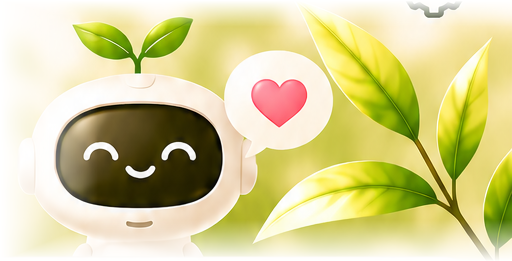
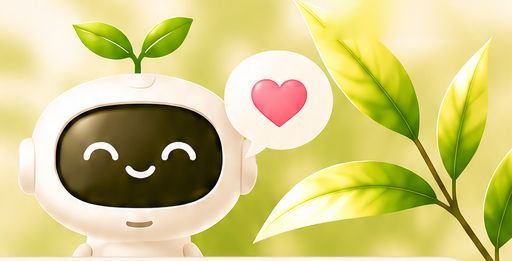
Add files via upload

Changed region(s): [[0.0, 0.0, 1.0, 1.0], [0.0625, 0.0, 1.0, 0.1839]]

diff --git a/index.html b/index.html
@@ -1,3 +1,3 @@
 <!DOCTYPE html>
 
-<html lang="ko"><head><meta charset="utf-8"/><meta content="width=device-width, initial-scale=1, viewport-fit=cover" name="viewport"/><meta content="#f9f1df" name="theme-color"/><meta content="yes" name="apple-mobile-web-app-capable"/><title>하루 · 1.1 테스트</title><link href="./style.css?v=1200" rel="stylesheet"/></head><body><div class="app"><header class="hero"><div aria-hidden="true" class="hero-art"></div><div class="hero-greeting">안녕하세요!<br/>오늘도 좋은 하루 되세요 😊</div><div class="brand"><h1><span class="leaf-mark">🌿</span> 하루</h1></div><div class="datebox"><strong id="dateText"></strong><small id="lunarText"></small></div></header><main><section class="page active" id="home"><button aria-label="음성으로 일정이나 할 일 등록" class="voice" id="voice" type="button"><span aria-hidden="true" class="voice-mic">🎙</span><span>말로 일정·할 일 등록</span><b aria-hidden="true">▥</b></button><div class="actions"><button class="add-event">▦  일정 추가</button><button class="add-task">☑  할 일 추가</button></div><div class="home-scroll"><div class="cards"><section class="panel home-events-card"><h2>▦ 오늘의 일정 <span class="home-count" id="homeEventsCount"></span><button aria-label="오늘 일정 자세히 보기" class="go" data-page="today-events">›</button></h2><div class="haru-scroll-host"><div class="card-scroll" id="todayEvents"></div><div aria-hidden="true" class="haru-scroll-rail"><div class="haru-scroll-thumb"></div></div></div></section><section class="panel home-tasks-card"><h2>☑ 오늘 할 일 <span class="home-count" id="homeTasksCount"></span><button aria-label="오늘 할 일 자세히 보기" class="go" data-page="today-tasks">›</button></h2><div class="haru-scroll-host"><div class="card-scroll" id="todayTasks"></div><div aria-hidden="true" class="haru-scroll-rail"><div class="haru-scroll-thumb"></div></div></div></section></div><section class="upcoming panel home-upcoming-card"><h2>◷ 다가오는 일정 <span class="home-count" id="homeUpcomingCount"></span></h2><div class="haru-scroll-host"><div class="card-scroll" id="upcomingEvents"></div><div aria-hidden="true" class="haru-scroll-rail"><div class="haru-scroll-thumb"></div></div></div></section></div></section><section class="page" id="today-events"><div class="detail-shell"><h2>하루 상세보기</h2><div class="premium-date-card"><div class="detail-date-nav"><button aria-label="이전 날짜" id="detailPrev" type="button">‹</button><button aria-label="날짜를 눌러 달력 열기" class="detail-date-open" id="detailDateOpen" type="button"><strong id="detailDateText"></strong><small id="detailLunarText"></small></button><button aria-label="다음 날짜" id="detailNext" type="button">›</button></div><div aria-label="일정 또는 할 일" class="detail-tabs" role="group"><button aria-pressed="true" class="detail-tab active" data-detail-kind="events" type="button">일정</button><button aria-pressed="false" class="detail-tab" data-detail-kind="tasks" type="button">할 일</button></div></div><div class="detail-section-heading"><strong id="detailListHeading">일정 0건</strong><span id="detailShortDate">시간순</span></div><div class="haru-scroll-host"><div aria-label="선택한 날짜의 목록" class="detail-list-scroll"><div id="todayEventsFull"></div><div hidden="" id="todayTasksFull"></div></div><div aria-hidden="true" class="haru-scroll-rail"><div class="haru-scroll-thumb"></div></div></div><button class="wide add-event" id="detailAddEvent">＋ 일정 추가</button><button class="wide add-task" hidden="" id="detailAddTask">＋ 할 일 추가</button></div></section><section class="page" id="calendar"><div class="section-head"><button id="prevMonth">‹</button><h2 id="monthLabel"></h2><button id="nextMonth">›</button></div><div class="weekdays"><span>일</span><span>월</span><span>화</span><span>수</span><span>목</span><span>금</span><span>토</span></div><div class="calendar-scroll-host haru-scroll-host"><div class="calendar-grid" id="calendarGrid"></div><div aria-hidden="true" class="haru-scroll-rail"><div class="haru-scroll-thumb"></div></div></div><h3 id="selectedLabel"></h3><div id="selectedEvents"></div><button class="wide add-event">＋ 일정 추가</button></section><section class="page" id="all"><div class="all-top"><h2>전체 일정</h2><p>날짜별로 정리한 나의 일정</p></div><div aria-label="일정 종류" class="filter" role="group"><button class="filter-btn selected" data-filter="all">모두</button><button class="filter-btn" data-filter="event">일정</button><button class="filter-btn" data-filter="task">할 일</button></div><div class="haru-scroll-host"><div class="all-scroll" id="allScroll"><div id="allItems"></div></div><div aria-hidden="true" class="haru-scroll-rail"><div class="haru-scroll-thumb"></div></div></div><div class="all-action-bar"><button class="add-event" type="button">＋ 일정 추가</button><button class="add-task" type="button">＋ 할 일 추가</button></div></section><section class="page" id="settings"><h2>설정</h2><div class="panel"><h3>하루 테스트 버전</h3><p>새로운 디자인과 기본 기능을 확인하는 독립 테스트야.</p><p>일정과 할 일은 이 브라우저에 저장돼. 기존 하루 앱의 데이터는 건드리지 않아.</p><button class="wide" id="export">내 데이터 백업(JSON)</button><button class="wide import-button" id="importButton" type="button">내 데이터 복원(JSON)</button><input accept=".json,application/json" hidden="" id="importFile" type="file"/><p class="small">복원 전 현재 데이터를 자동으로 백업하고, 확인 후 복원해.</p><label class="soundsetting">음성 등록 시작 안내 <select id="voiceMode"><option value="voice">안내 음성 + 효과음</option><option value="sound">효과음만</option><option value="silent">무음</option></select></label><p class="small">하루 1.1 테스트 · 기존 테스트 데이터는 그대로 유지돼.</p><p class="small">실제 푸시 알림은 아직 지원하지 않아. 일정별 알림 선택 사항만 저장해.</p></div></section></main><nav aria-label="하단 메뉴" class="nav"><button class="selected" data-page="home"><i>⌂</i>홈</button><button data-page="calendar"><i>▦</i>캘린더</button><button data-page="all"><i>☷</i>전체 일정</button><button data-page="settings"><i class="nav-settings-icon"><svg aria-hidden="true" fill="none" height="23" stroke="currentColor" stroke-linecap="round" stroke-linejoin="round" stroke-width="1.8" viewbox="0 0 24 24" width="23"><path d="M4 7h16M4 12h12M4 17h8"></path><circle cx="16" cy="17" fill="currentColor" r="2" stroke="none"></circle></svg></i>설정</button></nav></div><dialog aria-label="날짜 선택" class="detail-calendar-dialog" id="detailCalendarDialog"><div class="dialoghead"><h2>날짜 선택</h2><button aria-label="닫기" class="close" type="button">×</button></div><div class="detail-calendar-head"><button aria-label="이전 달" id="detailCalPrev" type="button">‹</button><strong id="detailCalMonth"></strong><button aria-label="다음 달" id="detailCalNext" type="button">›</button></div><div class="detail-calendar-week"><span>일</span><span>월</span><span>화</span><span>수</span><span>목</span><span>금</span><span>토</span></div><div class="detail-calendar-grid" id="detailCalGrid"></div></dialog><dialog id="eventDialog"><form id="eventForm"><div class="dialoghead"><h2 id="eventDialogTitle">일정 등록</h2><button class="close" type="button">×</button></div><label>일정 제목<input maxlength="80" name="title" placeholder="예: PT 수업" required=""/></label><div class="two"><label>날짜<input name="date" required="" type="date"/></label><label>시간<input name="time" required="" type="time" value="10:00"/></label></div><label>장소<input name="place" placeholder="선택 사항"/></label><fieldset><legend>이 일정의 알림 선택</legend><label><input checked="" name="prev" type="checkbox"/> 전날 오후 7시</label><label><input checked="" name="morning" type="checkbox"/> 당일 오전 9시</label><label><input checked="" name="before" type="checkbox"/> 시작 1시간 전</label></fieldset><p class="small">선택 내용은 저장되지만 실제 알림 전송은 아직 구현 전이야.</p><button class="save" type="submit">저장하기</button><button class="delete-entry" hidden="" id="deleteEvent" type="button">이 일정 삭제</button></form></dialog><dialog id="taskDialog"><form id="taskForm"><div class="dialoghead"><h2 id="taskDialogTitle">할 일 등록</h2><button class="close" type="button">×</button></div><label>할 일<input maxlength="80" name="title" placeholder="예: 장보기" required=""/></label><label>날짜<input name="date" required="" type="date"/></label><button class="save" type="submit">저장하기</button><button class="delete-entry" hidden="" id="deleteTask" type="button">이 할 일 삭제</button></form></dialog><dialog class="day-dialog" id="dayDialog"><div class="dialoghead"><div><h2 id="dayDialogTitle"></h2><p class="small" id="dayDialogLunar"></p></div><button aria-label="닫기" class="close" type="button">×</button></div><div class="day-dialog-list" id="dayDialogItems"></div><div class="day-dialog-actions"><button id="dayAddEvent" type="button">＋ 일정 추가</button><button id="dayAddTask" type="button">＋ 할 일 추가</button></div></dialog><dialog aria-label="음성 등록" class="voice-progress" id="voiceProgressDialog"><div class="dialoghead"><h2>🎙 음성 등록</h2><button aria-label="음성 등록 취소" class="close" id="voiceProgressClose" type="button">×</button></div><div class="voice-live-status"><span aria-hidden="true" class="voice-status-dot"></span><p aria-live="polite" id="voiceProgressText" role="status">마이크 준비 중…</p></div><p aria-live="polite" id="voiceTranscript">마이크가 준비되면 말씀해 주세요.</p><div class="voice-controls"><button class="voice-cancel" id="voiceCancel" type="button">취소</button><button class="voice-resume" hidden="" id="voiceResume" type="button">이어서 말하기</button><button class="voice-finish" disabled="" id="voiceFinish" type="button">완료</button></div></dialog><dialog id="voiceChoiceDialog"><div class="dialoghead"><h2>음성 등록 종류 선택</h2><button aria-label="닫기" class="close" type="button">×</button></div><p class="small">어느 항목으로 등록할까? 저장하기 전에 내용을 확인할 수 있어.</p><p class="voice-choice-text" id="voiceChoiceText"></p><div class="day-dialog-actions"><button id="voiceChooseEvent" type="button">일정으로 등록</button><button id="voiceChooseTask" type="button">할 일로 등록</button></div></dialog><script src="./voice-engine.js?v=1200"></script><script src="./app.js?v=1200"></script><script src="./scroll-indicators.js?v=1200"></script></body></html>
+<html lang="ko"><head><meta charset="utf-8"/><meta content="width=device-width, initial-scale=1, viewport-fit=cover" name="viewport"/><meta content="#f9f1df" name="theme-color"/><meta content="yes" name="apple-mobile-web-app-capable"/><title>하루 · 1.1 테스트</title><link href="./style.css?v=1300" rel="stylesheet"/></head><body><div class="app"><header class="hero"><div aria-hidden="true" class="hero-art"></div><div class="hero-greeting">안녕하세요!<br/>오늘도 좋은 하루 되세요 😊</div><div class="brand"><h1><span class="leaf-mark">🌿</span> 하루</h1></div><div class="datebox"><strong id="dateText"></strong><small id="lunarText"></small></div></header><main><section class="page active" id="home"><button aria-label="음성으로 일정이나 할 일 등록" class="voice" id="voice" type="button"><span aria-hidden="true" class="voice-mic">🎙</span><span>말로 일정·할 일 등록</span><b aria-hidden="true">▥</b></button><div class="actions"><button class="add-event">▦  일정 추가</button><button class="add-task">☑  할 일 추가</button></div><div class="home-scroll"><div class="cards"><section class="panel home-events-card"><h2>▦ 오늘의 일정 <span class="home-count" id="homeEventsCount"></span><button aria-label="오늘 일정 자세히 보기" class="go" data-page="today-events">›</button></h2><div class="haru-scroll-host"><div class="card-scroll" id="todayEvents"></div><div aria-hidden="true" class="haru-scroll-rail"><div class="haru-scroll-thumb"></div></div></div></section><section class="panel home-tasks-card"><h2>☑ 오늘 할 일 <span class="home-count" id="homeTasksCount"></span><button aria-label="오늘 할 일 자세히 보기" class="go" data-page="today-tasks">›</button></h2><div class="haru-scroll-host"><div class="card-scroll" id="todayTasks"></div><div aria-hidden="true" class="haru-scroll-rail"><div class="haru-scroll-thumb"></div></div></div></section></div><section class="upcoming panel home-upcoming-card"><h2>◷ 다가오는 일정 <span class="home-count" id="homeUpcomingCount"></span></h2><div class="haru-scroll-host"><div class="card-scroll" id="upcomingEvents"></div><div aria-hidden="true" class="haru-scroll-rail"><div class="haru-scroll-thumb"></div></div></div></section></div></section><section class="page" id="today-events"><div class="detail-shell"><h2>하루 상세보기</h2><div class="premium-date-card"><div class="detail-date-nav"><button aria-label="이전 날짜" id="detailPrev" type="button">‹</button><button aria-label="날짜를 눌러 달력 열기" class="detail-date-open" id="detailDateOpen" type="button"><strong id="detailDateText"></strong><small id="detailLunarText"></small></button><button aria-label="다음 날짜" id="detailNext" type="button">›</button></div><div aria-label="일정 또는 할 일" class="detail-tabs" role="group"><button aria-pressed="true" class="detail-tab active" data-detail-kind="events" type="button">일정</button><button aria-pressed="false" class="detail-tab" data-detail-kind="tasks" type="button">할 일</button></div></div><div class="detail-section-heading"><strong id="detailListHeading">일정 0건</strong><span id="detailShortDate">시간순</span></div><div class="haru-scroll-host"><div aria-label="선택한 날짜의 목록" class="detail-list-scroll"><div id="todayEventsFull"></div><div hidden="" id="todayTasksFull"></div></div><div aria-hidden="true" class="haru-scroll-rail"><div class="haru-scroll-thumb"></div></div></div><button class="wide add-event" id="detailAddEvent">＋ 일정 추가</button><button class="wide add-task" hidden="" id="detailAddTask">＋ 할 일 추가</button></div></section><section class="page" id="calendar"><div class="section-head"><button id="prevMonth">‹</button><h2 id="monthLabel"></h2><button id="nextMonth">›</button></div><div class="weekdays"><span>일</span><span>월</span><span>화</span><span>수</span><span>목</span><span>금</span><span>토</span></div><div class="calendar-scroll-host haru-scroll-host"><div class="calendar-grid" id="calendarGrid"></div><div aria-hidden="true" class="haru-scroll-rail"><div class="haru-scroll-thumb"></div></div></div><h3 id="selectedLabel"></h3><div id="selectedEvents"></div><button class="wide add-event">＋ 일정 추가</button></section><section class="page" id="all"><div class="all-top"><h2>전체 일정</h2><p>날짜별로 정리한 나의 일정</p></div><div aria-label="일정 종류" class="filter" role="group"><button class="filter-btn selected" data-filter="all">모두</button><button class="filter-btn" data-filter="event">일정</button><button class="filter-btn" data-filter="task">할 일</button></div><div class="haru-scroll-host"><div class="all-scroll" id="allScroll"><div id="allItems"></div></div><div aria-hidden="true" class="haru-scroll-rail"><div class="haru-scroll-thumb"></div></div></div><div class="all-action-bar"><button class="add-event" type="button">＋ 일정 추가</button><button class="add-task" type="button">＋ 할 일 추가</button></div></section><section class="page" id="settings"><h2>설정</h2><div class="panel"><h3>하루 테스트 버전</h3><p>새로운 디자인과 기본 기능을 확인하는 독립 테스트야.</p><p>일정과 할 일은 이 브라우저에 저장돼. 기존 하루 앱의 데이터는 건드리지 않아.</p><button class="wide" id="export">내 데이터 백업(JSON)</button><button class="wide import-button" id="importButton" type="button">내 데이터 복원(JSON)</button><input accept=".json,application/json" hidden="" id="importFile" type="file"/><p class="small">복원 전 현재 데이터를 자동으로 백업하고, 확인 후 복원해.</p><label class="soundsetting">음성 등록 시작 안내 <select id="voiceMode"><option value="voice">안내 음성 + 효과음</option><option value="sound">효과음만</option><option value="silent">무음</option></select></label><p class="small">하루 1.1 테스트 · 기존 테스트 데이터는 그대로 유지돼.</p><p class="small">실제 푸시 알림은 아직 지원하지 않아. 일정별 알림 선택 사항만 저장해.</p></div></section></main><nav aria-label="하단 메뉴" class="nav"><button class="selected" data-page="home"><i><svg aria-hidden="true" fill="none" height="24" stroke="currentColor" stroke-linecap="round" stroke-linejoin="round" stroke-width="1.8" viewbox="0 0 24 24" width="24" xmlns="http://www.w3.org/2000/svg"><path d="m3 10 9-7 9 7v10a1 1 0 0 1-1 1H4a1 1 0 0 1-1-1z"></path><path d="M9 21v-8h6v8"></path></svg></i>홈</button><button data-page="calendar"><i><svg aria-hidden="true" fill="none" height="24" stroke="currentColor" stroke-linecap="round" stroke-linejoin="round" stroke-width="1.8" viewbox="0 0 24 24" width="24" xmlns="http://www.w3.org/2000/svg"><rect height="16" rx="2" width="18" x="3" y="5"></rect><path d="M7 3v4M17 3v4M3 10h18M8 14h.01M12 14h.01M16 14h.01M8 18h.01M12 18h.01"></path></svg></i>캘린더</button><button data-page="all"><i><svg aria-hidden="true" fill="none" height="24" stroke="currentColor" stroke-linecap="round" stroke-linejoin="round" stroke-width="1.8" viewbox="0 0 24 24" width="24" xmlns="http://www.w3.org/2000/svg"><path d="M8 6h13M8 12h13M8 18h13"></path><path d="M3.5 6h.01M3.5 12h.01M3.5 18h.01"></path></svg></i>전체 일정</button><button data-page="settings"><i class="nav-settings-icon"><svg aria-hidden="true" fill="none" height="24" stroke="currentColor" stroke-linecap="round" stroke-linejoin="round" stroke-width="1.8" viewbox="0 0 24 24" width="24" xmlns="http://www.w3.org/2000/svg"><path d="M4 7h16M4 12h12M4 17h8"></path><circle cx="16" cy="17" fill="currentColor" r="2" stroke="none"></circle></svg></i>설정</button></nav></div><dialog aria-label="날짜 선택" class="detail-calendar-dialog" id="detailCalendarDialog"><div class="dialoghead"><h2>날짜 선택</h2><button aria-label="닫기" class="close" type="button">×</button></div><div class="detail-calendar-head"><button aria-label="이전 달" id="detailCalPrev" type="button">‹</button><strong id="detailCalMonth"></strong><button aria-label="다음 달" id="detailCalNext" type="button">›</button></div><div class="detail-calendar-week"><span>일</span><span>월</span><span>화</span><span>수</span><span>목</span><span>금</span><span>토</span></div><div class="detail-calendar-grid" id="detailCalGrid"></div></dialog><dialog id="eventDialog"><form id="eventForm"><div class="dialoghead"><h2 id="eventDialogTitle">일정 등록</h2><button class="close" type="button">×</button></div><label>일정 제목<input maxlength="80" name="title" placeholder="예: PT 수업" required=""/></label><div class="two"><label>날짜<input name="date" required="" type="date"/></label><label>시간<input name="time" required="" type="time" value="10:00"/></label></div><label>장소<input name="place" placeholder="선택 사항"/></label><fieldset><legend>이 일정의 알림 선택</legend><label><input checked="" name="prev" type="checkbox"/> 전날 오후 7시</label><label><input checked="" name="morning" type="checkbox"/> 당일 오전 9시</label><label><input checked="" name="before" type="checkbox"/> 시작 1시간 전</label></fieldset><p class="small">선택 내용은 저장되지만 실제 알림 전송은 아직 구현 전이야.</p><button class="save" type="submit">저장하기</button><button class="delete-entry" hidden="" id="deleteEvent" type="button">이 일정 삭제</button></form></dialog><dialog id="taskDialog"><form id="taskForm"><div class="dialoghead"><h2 id="taskDialogTitle">할 일 등록</h2><button class="close" type="button">×</button></div><label>할 일<input maxlength="80" name="title" placeholder="예: 장보기" required=""/></label><label>날짜<input name="date" required="" type="date"/></label><button class="save" type="submit">저장하기</button><button class="delete-entry" hidden="" id="deleteTask" type="button">이 할 일 삭제</button></form></dialog><dialog class="day-dialog" id="dayDialog"><div class="dialoghead"><div><h2 id="dayDialogTitle"></h2><p class="small" id="dayDialogLunar"></p></div><button aria-label="닫기" class="close" type="button">×</button></div><div class="day-dialog-list" id="dayDialogItems"></div><div class="day-dialog-actions"><button id="dayAddEvent" type="button">＋ 일정 추가</button><button id="dayAddTask" type="button">＋ 할 일 추가</button></div></dialog><dialog aria-label="음성 등록" class="voice-progress" id="voiceProgressDialog"><div class="dialoghead"><h2>🎙 음성 등록</h2><button aria-label="음성 등록 취소" class="close" id="voiceProgressClose" type="button">×</button></div><div class="voice-live-status"><span aria-hidden="true" class="voice-status-dot"></span><p aria-live="polite" id="voiceProgressText" role="status">마이크 준비 중…</p></div><p aria-live="polite" id="voiceTranscript">마이크가 준비되면 말씀해 주세요.</p><div class="voice-controls"><button class="voice-cancel" id="voiceCancel" type="button">취소</button><button class="voice-resume" hidden="" id="voiceResume" type="button">이어서 말하기</button><button class="voice-finish" disabled="" id="voiceFinish" type="button">완료</button></div></dialog><dialog id="voiceChoiceDialog"><div class="dialoghead"><h2>음성 등록 종류 선택</h2><button aria-label="닫기" class="close" type="button">×</button></div><p class="small">어느 항목으로 등록할까? 저장하기 전에 내용을 확인할 수 있어.</p><p class="voice-choice-text" id="voiceChoiceText"></p><div class="day-dialog-actions"><button id="voiceChooseEvent" type="button">일정으로 등록</button><button id="voiceChooseTask" type="button">할 일로 등록</button></div></dialog><script src="./voice-engine.js?v=1300"></script><script src="./app.js?v=1300"></script><script src="./scroll-indicators.js?v=1300"></script></body></html>

diff --git a/voice-engine.js b/voice-engine.js
@@ -21,6 +21,11 @@ function parse(input, options={}){
   consume(/(오전|오후|아침|점심|저녁|밤|새벽)?\s*(\d{1,2}|열두|열한|아홉|여덟|일곱|여섯|다섯|넷|네|셋|세|둘|두|하나|한|열)\s*시(?:\s*(\d{1,2})\s*분|\s*반)?/,m=>{let h=num(m[2]),min=/반\s*$/.test(m[0])?30:+(m[3]||0);if(['오후','점심','저녁','밤'].includes(m[1])&&h<12)h+=12;if(['오전','아침','새벽'].includes(m[1])&&h===12)h=0;if(h>23||min>59)return false;time=`${pad(h)}:${pad(min)}`;timeFound=true;return true});
  }
  if(!timeFound&&/(점심|저녁|아침|오후|오전|밤)\s*(?:에|쯤|경)?/.test(text))ambiguous.push('시간을 확인해 주세요');
+ // Separate spoken location clauses before cleaning the event title.
+ // Example: "병원은 충대병원이야", "장소는 시청 회의실이야".
+ consume(/(?:^|[.?!]\s*|\s+)(?:장소|병원|식당|위치|모임\s*장소)(?:은|는)\s+([가-힣A-Za-z0-9 ]{2,30}?)(?:이야|야|입니다|이에요|예요|라고\s*해|이래)?[.!?\s]*$/,m=>{place=m[1].trim();return !!place});
+ // A common conversational phrasing: "병원은 충대병원이야" after an earlier event clause.
+ if(!place)consume(/(?:^|\s)(?:병원|장소|식당|위치)(?:은|는)\s*([가-힣A-Za-z0-9 ]{2,25}?)(?:이야|야|이에요|예요|입니다)[.!?\s]*$/,m=>{place=m[1].trim();return !!place});
  // Don't infer locations without explicit marker; avoid swallowing long sentence.
  consume(/(?:^|\s)([가-힣A-Za-z0-9 ]{2,24}?)\s*에서(?=\s|$)/,m=>{place=m[1].trim();return !!place});
  text=text.replace(/^(?:에|에는|에선|까지|부터)\s*/, '');
@@ -29,7 +34,7 @@ function parse(input, options={}){
  .replace(/\s*(?:있어|있어요|있습니다|있다|있는데|잡혀\s*있어|예약했어|예약했어요|예약해\s*뒀어|해야\s*해|해야\s*돼|해야겠어|할\s*거야|할\s*거예요|예정이야|예정입니다|잡아\s*줘|기억해\s*줘|알려\s*줘|등록해\s*줘|추가해\s*줘)[.!?\s]*$/,' ')
  .replace(/^(?:에|에는|에서|은|는|을|를)\s+/,' ')
  .replace(/\s+(?:에|에는|부터|쯤|경)(?=\s|$)/g,' ')
- .replace(/\s+/g,' ').trim();
+ .replace(/[.!?]+/g,' ').replace(/\s+/g,' ').trim();
  // Only remove standalone, grammatically clear particles; never guess away content.
  // Korean subject particles attached to the event phrase: remove only when a spoken predicate was removed.
  if (/(?:있어|있어요|있습니다|있다|있는데|잡혀\s*있어|예약했어|예약했어요|해야\s*해|해야\s*돼|예정이야)[.!?\s]*$/.test(original)) {
@@ -39,6 +44,8 @@ function parse(input, options={}){
  text=text.replace(/^(?:오|에|에는|에서|이|가)\s+(?=[가-힣A-Za-z])/, '').trim();
  if(!dateFound)ambiguous.push('날짜를 확인해 주세요');
  if(!timeFound)ambiguous.push('시간을 확인해 주세요');
+ // Remove a subject particle from an event phrase only when it is a recognized predicate construction.
+ if(/(?:있어|있어요|있습니다|있다|있는데)[.!?\s]*(?:병원|장소|식당|위치)(?:은|는)/.test(original))text=text.replace(/(수업|회의|약속|예약|운동|진료|모임|방문|점검|상담|검사|검진|면접|식사|미팅|라운딩|교육|강의|행사)(이|가)(?=\s|$)/,'$1');
  const title=text||original;
  return {title,date,time:time||'10:00',place,dateFound,timeFound,needsReview:ambiguous.length>0,reviewReasons:[...new Set(ambiguous)],original};
 }

diff --git a/style.css b/style.css
@@ -215,7 +215,7 @@ main{padding:8px 14px 12px!important}
 
 /* v0.9.4.1: small, isolated layout fixes; voice and storage JS unchanged */
 .hero{height:202px!important;min-height:202px!important;flex:0 0 202px!important}
-.hero-art{inset:auto 5% 39px auto!important;width:41%!important;height:112px!important;background-image:url('./hero-robot.png?v=0941')!important;background-size:contain!important;background-repeat:no-repeat!important;background-position:center center!important;opacity:1}
+.hero-art{inset:auto 5% 39px auto!important;width:41%!important;height:112px!important;background-image:url('./hero-robot.png?v=1300')!important;background-size:contain!important;background-repeat:no-repeat!important;background-position:center center!important;opacity:1}
 .brand{z-index:4!important}.datebox{z-index:5!important;top:155px!important;height:41px!important;display:flex!important}
 .hero-greeting{z-index:3!important;max-width:51%!important}
 #home.page.active{display:flex!important;flex-direction:column!important;overflow:hidden!important;padding-bottom:0!important}
@@ -541,3 +541,7 @@ main{padding:8px 14px 12px!important}
 .nav .nav-settings-icon{display:grid!important;place-items:center!important;width:25px!important;height:25px!important;border-radius:0!important;background:transparent!important;color:#345b43!important;box-shadow:none!important;border:0!important;overflow:visible!important;font-style:normal!important}
 .nav .nav-settings-icon svg{display:block!important;width:23px!important;height:23px!important;overflow:visible!important}
 .nav button[data-page="settings"]::before,.nav button[data-page="settings"]::after,.nav .nav-settings-icon::before,.nav .nav-settings-icon::after{content:none!important;display:none!important}
+
+/* Haru 1.3: consistent bottom navigation iconography */
+.nav button[data-page] svg{width:24px!important;height:24px!important;display:block!important;stroke-width:1.8!important;flex-shrink:0!important}
+.nav button[data-page] i{width:26px!important;height:26px!important;display:grid!important;place-items:center!important;font-style:normal!important}
